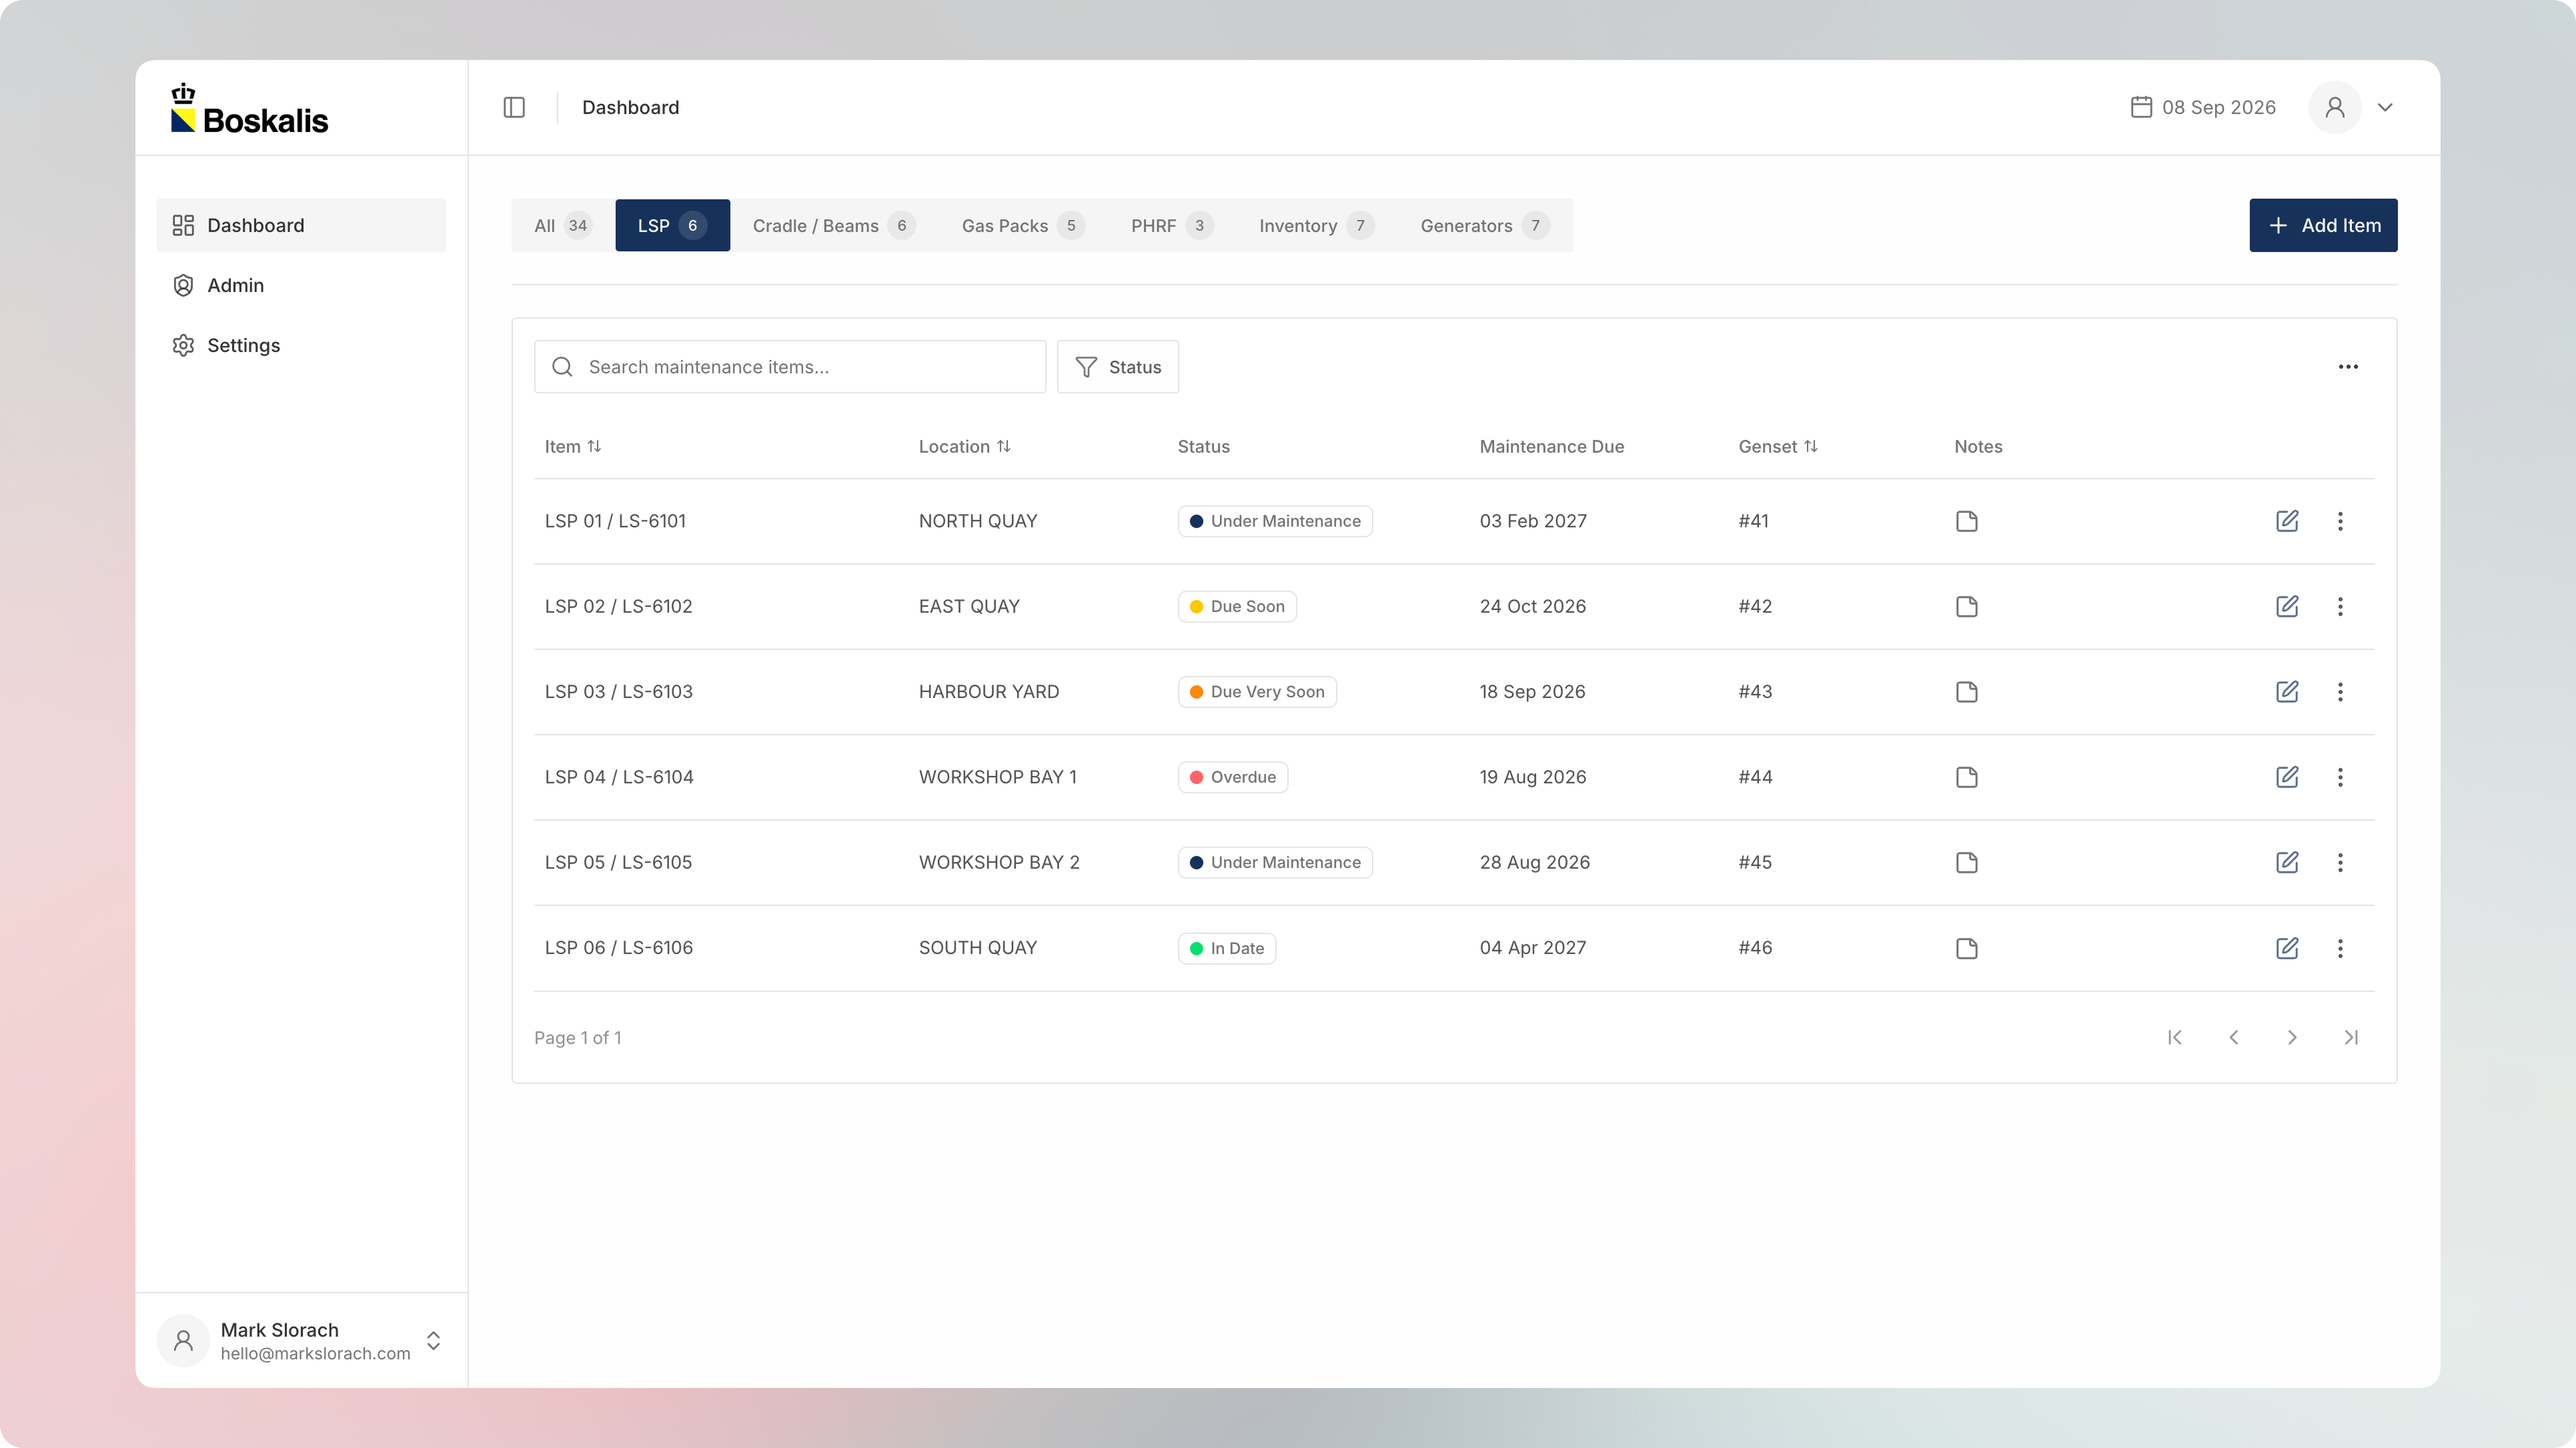
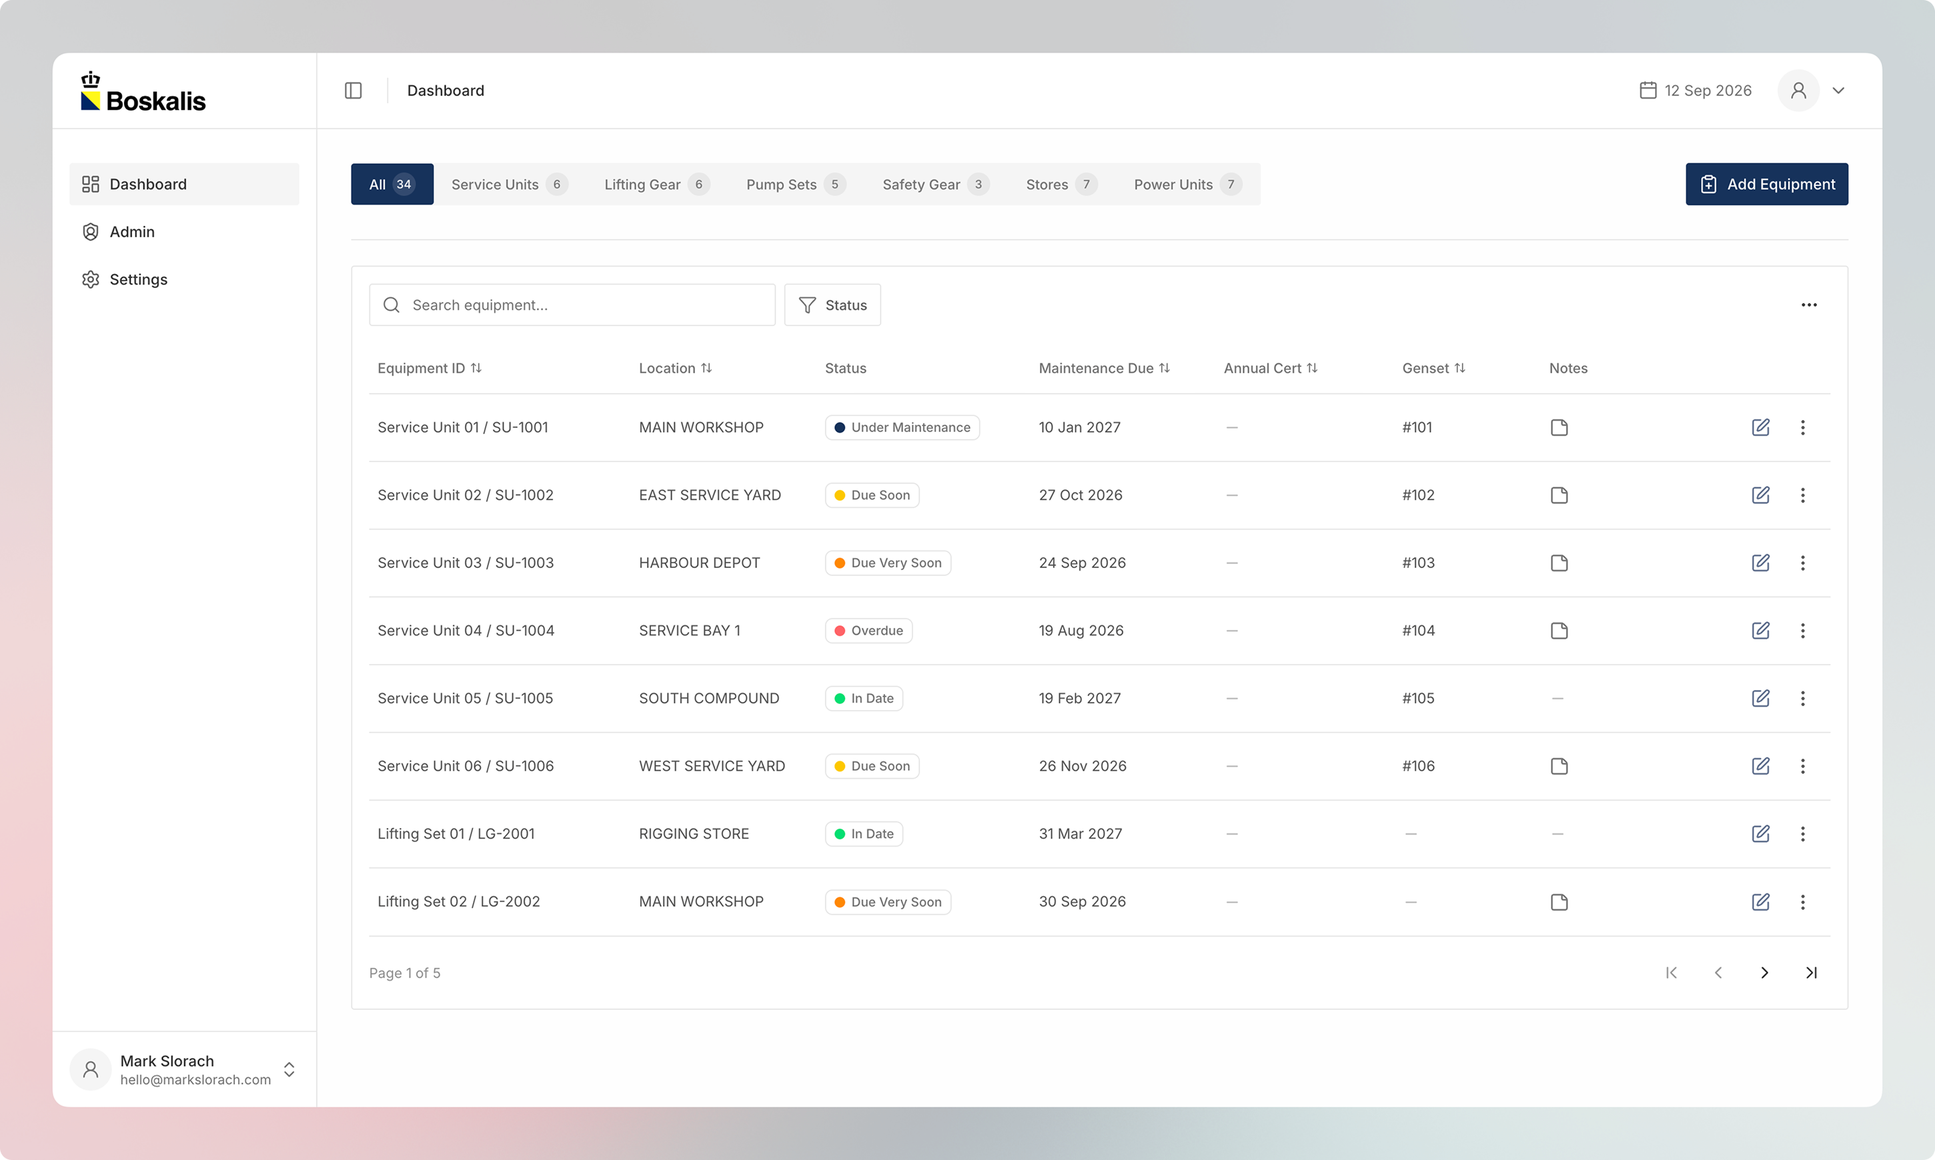
Update README.md

diff --git a/README.md b/README.md
@@ -1,41 +1,48 @@
-![Boskalis Maintenance System Banner](.github/readme-assets/boskalis-github-banner.png)
+![Boskalis Equipment Maintenance Banner](.github/readme-assets/github-readme-banner.png)
 
-# Boskalis Maintenance System
-A production maintenance management application built for Boskalis to bring maritime equipment records, maintenance schedules and user access into one clear system.
+# Boskalis Equipment Maintenance
 
-> This repository showcases the application using mock data. Production source code and operational data are not included.
+A production maintenance management application built for Boskalis to bring maritime equipment records, maintenance schedules and user access into one easy-to-use system.
+
+> This repository showcases the application using mock equipment type and data. Production source code and data are not included.
 
 ## The Problem
-The project began with a photograph of the whiteboard the team used to track equipment, alongside an Excel spreadsheet. I turned that workflow into a single system that is now used in production and continues to evolve with the team’s requirements.
 
-## Demo
-https://github.com/user-attachments/assets/34363b04-6e72-4f13-bd5e-6c62ecf2fd0f
+The project began with a photograph of the whiteboard the team used to track equipment, alongside an Excel spreadsheet. I turned that workflow into a single system that is now used in production.
 
 ## Features
+
 ### Equipment Management
+
 * Tracks equipment details, locations, gensets, notes and maintenance or certification dates
 * Calculates and displays status using client-specific due-date rules, including an under-maintenance override
-* Organises records by equipment type with fuzzy search, status filtering, sorting and pagination
-* Allows authorised users to create, edit, archive and restore records, with permanent deletion restricted to admins
-* Saves filter preferences and exports the maintenance register to CSV
+* Organises equipment by type with fuzzy search, status filtering, sorting and pagination
+* Allows authorised users to create, edit, archive and restore equipment, with permanent deletion restricted to admins
+* Saves filter preferences and exports the equipment register to CSV
 
 ### Users and Access
+
 * Provides email-and-password authentication with protected application routes
 * Enforces viewer, editor and admin permissions in both the interface and server operations
 * Gives administrators tools to create, edit and remove users, assign access and review verification status
 * Provides email onboarding, password setup and account session controls
 
 ## Architecture
-* **Maintenance status** — The same calculation is used throughout the application, based on due dates and whether an item is archived or under maintenance.
+
+* **Maintenance status** — The same calculation is used throughout the application, based on due dates and whether equipment is archived or under maintenance.
 * **Permissions** — Every Server Action checks the signed-in user and their role before making changes, and form data is validated with Zod.
 * **Data and tables** — TanStack Query handles cached data and refreshes, while TanStack Table handles searching, filtering, sorting and pagination.
 * **User onboarding** — Better Auth handles user accounts, while password-setup emails are built with React Email and sent through Resend.
 * **Monitoring** — Client and server errors are captured using Sentry-compatible monitoring.
 
 ## Tech Stack
+
 * **Application:** Next.js 16, React 19, TypeScript, Tailwind CSS 4, shadcn/ui and Radix UI
 * **Data and authentication:** PostgreSQL, Prisma 7, Better Auth, TanStack Query 5 and TanStack Table 9
 * **Forms and services:** React Hook Form, Zod, Resend, React Email and Sentry
 
 ## Screenshots
-![Boskalis Maintenance Dashboard](.github/readme-assets/boskalis-dashboard.png)
+
+![Boskalis Equipment Maintenance Dashboard](.github/readme-assets/boskalis-dashboard.png)
+
+![Boskalis Equipment Maintenance Admin](.github/readme-assets/boskalis-admin.png)
